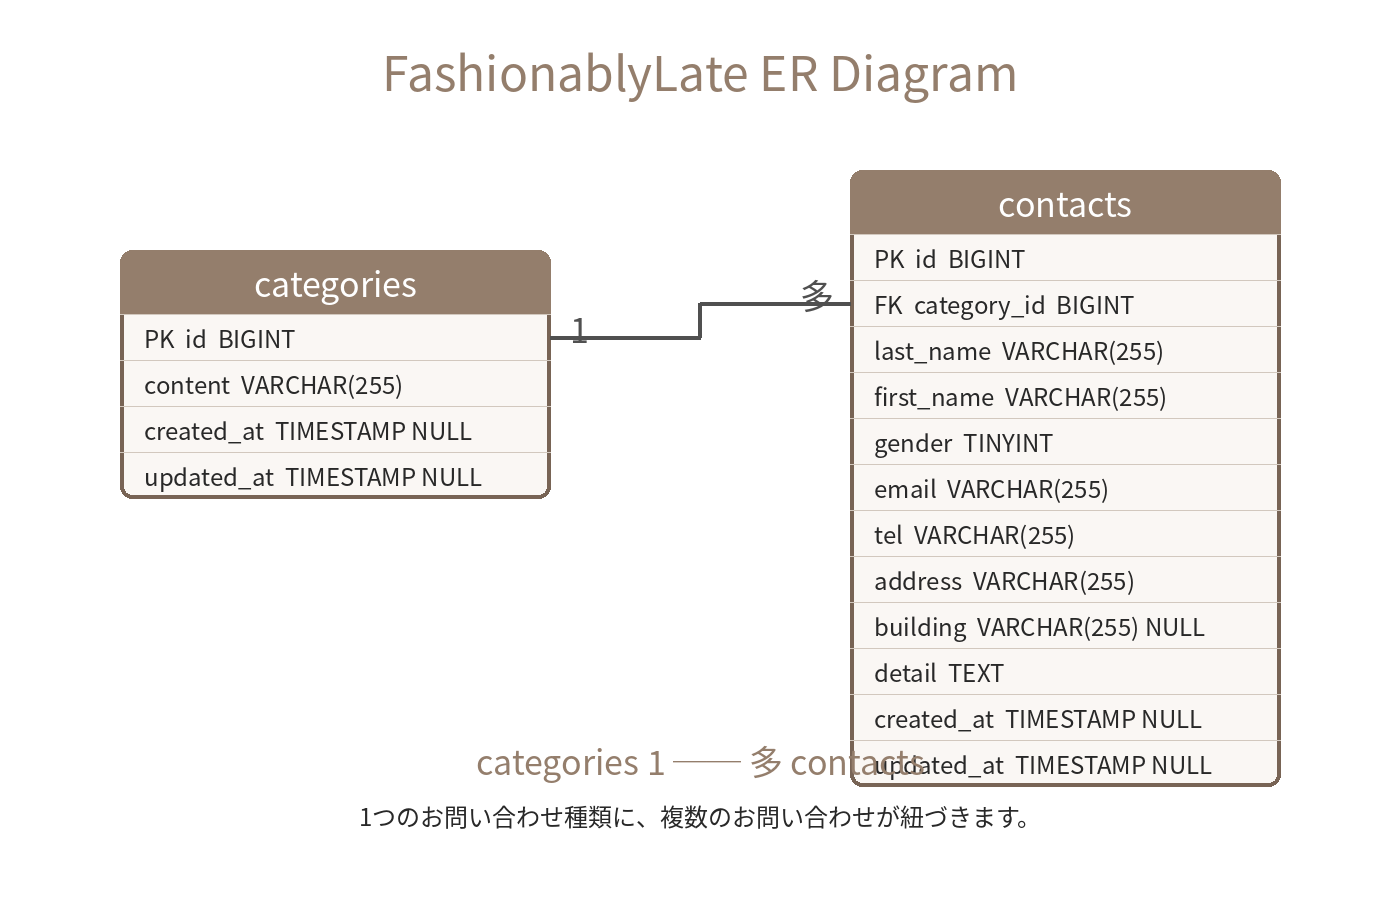
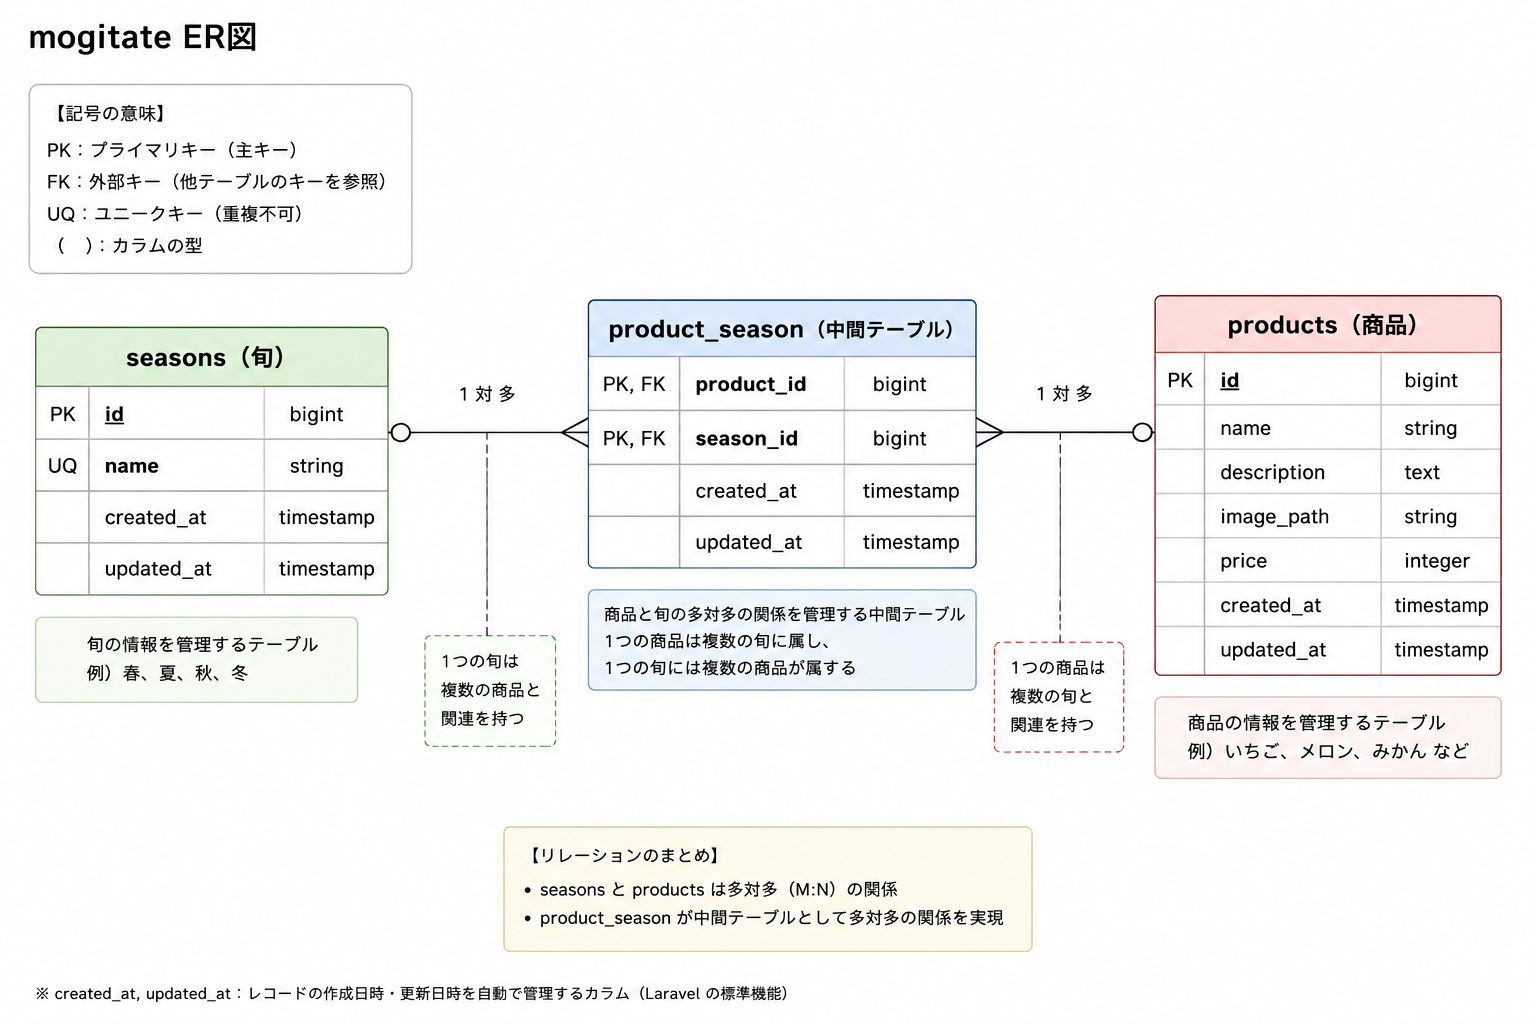
Update README

diff --git a/src/README.md b/src/README.md
@@ -1,12 +1,12 @@
-# FashionablyLate
+# mogitate
 
 ## 環境構築
 
 ### Dockerビルド
 
 ```bash
-git clone https://github.com/to3310ri/FashionablyLate.git
-cd FashionablyLate
+git clone https://github.com/to3310ri/mogitate.git
+cd mogitate
 docker-compose up -d --build
 ```
 
@@ -24,8 +24,6 @@ php artisan key:generate
 php artisan migrate --seed
 ```
 
----
-
 ## 使用技術（実行環境）
 
 - PHP 8.2
@@ -34,15 +32,11 @@ php artisan migrate --seed
 - Docker
 - phpMyAdmin
 
----
-
 ## ER図
 
 ![ER図](./ER.png)
 
----
-
 ## URL
 
-- 開発環境：http://localhost
-- phpMyAdmin：http://localhost:8080
+- 開発環境：http://localhost:8082/products
+- phpMyAdmin：http://localhost:8081